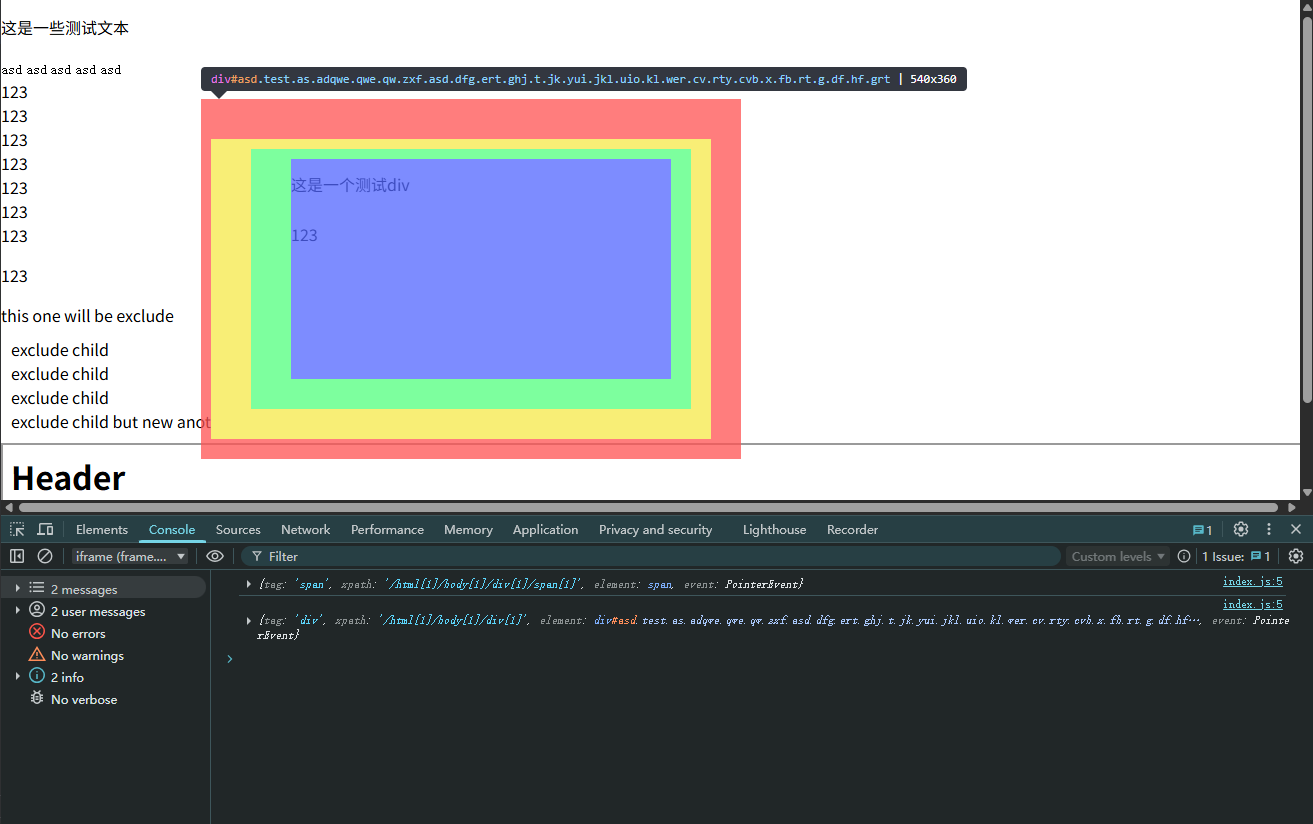
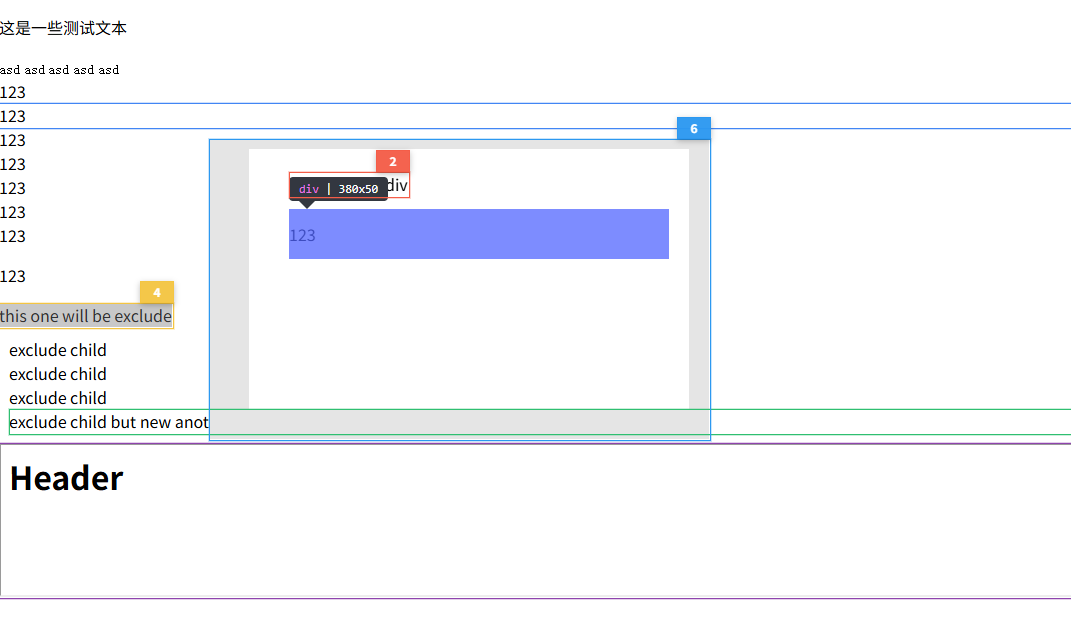
docs: add readme

diff --git a/README.md b/README.md
@@ -20,6 +20,7 @@ Lightweight DOM overlay that visualizes margin, border, padding, and size while 
 - Click callback returns tag, XPath, the element itself, and the original mouse event for downstream tooling.
 - XPath helpers to build and resolve deterministic absolute paths; DOM helpers include sizing, position (with cross-frame support), and safe element creation.
 - `throttle` to keep overlay updates smooth under frequent mousemove; logging helpers for consistent console output.
+- Optional `selected` XPaths render numbered, color-coded outlines with tab-like labels for quick multi-target identification; toggle via `enableSelected` / `disableSelected`.
 - Written in TypeScript; ships as ESM/CJS with declaration files for typed projects.
 
 ## Install / 安装
@@ -64,6 +65,7 @@ const node = getDom(xpath!);
 - `constructor({ root?, theme, onClick? })`: create overlay; `root` defaults to `document.body`; `onClick` receives `{ tag, xpath, element, event }`.
 - `enable()`: show overlay and start listeners.
 - `disable()`: hide overlay and remove listeners.
+- `enableSelected() / disableSelected()`: show or hide numbered, color-coded outlines for the `selected` XPath list passed to the constructor.
 - `destroy()`: disable and mark instance unusable.
 - `getXPath(element)`: safe wrapper to compute XPath.
 
